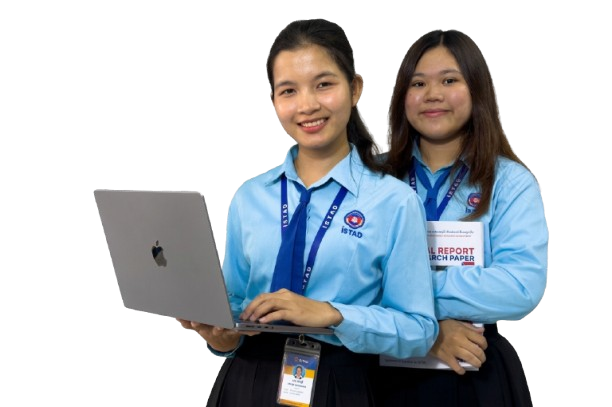
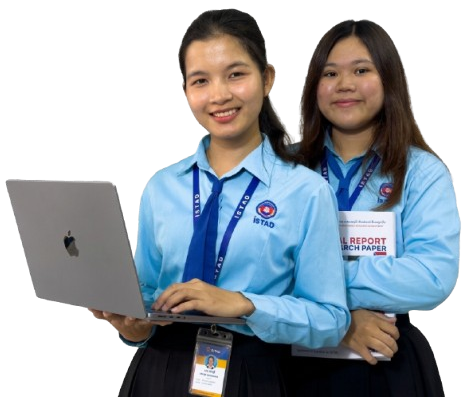
change pae documentation

diff --git a/src/components/documentation/VideoCard.tsx b/src/components/documentation/VideoCard.tsx
@@ -1,32 +1,82 @@
-import { Play } from "lucide-react";
+import Image from "next/image";
+import { Play, Eye } from "lucide-react";
+import { InstructorProps } from "@/types/documentation";
 
-export default function VideoCard({
-  instructor,
-}: {
-  instructor: { videoTitle: string; videoSubtitle: string; studentsLabel: string };
-}) {
+export default function VideoCard({ instructor }: InstructorProps) {
   if (!instructor.videoTitle) return null;
+
   return (
-    <div
-      className="bg-white border border-gray-200 p-4 mb-6 flex items-center gap-4"
-      style={{ borderRadius: 16 }}
-    >
-      <div
-        className="w-24 h-16 flex items-center justify-center shrink-0"
-        style={{ background: "#002455", borderRadius: 16 }}
-      >
-        <Play className="text-white" size={22} />
+    <div className="my-4 group flex flex-col w-full overflow-hidden bg-white border border-slate-100 rounded-2xl transition-all duration-300 font-sans">
+      
+      {/* Top Section: Video Thumbnail (Changed aspect ratio to make it shorter/smaller) */}
+      <div className="relative w-full aspect-[16/7] md:aspect-[16/6] bg-indigo-50 overflow-hidden cursor-pointer">
+        {/* Main Background Thumbnail Image */}
+        <Image
+          src="/images/video-thumbnail.png" 
+          alt={instructor.videoTitle}
+          fill
+          sizes="(max-width: 1200px) 100vw, 1200px"
+          className="object-cover group-hover:scale-105 transition-transform duration-500 ease-out"
+        />
+        
+        {/* Subtle Dark Gradient Overlay on Hover */}
+        <div className="absolute inset-0 bg-slate-900/10 opacity-0 group-hover:opacity-100 transition-opacity duration-300" />
+        
+        {/* Centered Play Button Circle */}
+        <div className="absolute z-10 inset-0 m-auto w-14 h-14 bg-white rounded-full flex items-center justify-center shadow-md group-hover:scale-110 group-hover:bg-[#5b4eff] group-hover:shadow-indigo-200 transition-all duration-300">
+          <Play className="text-[#5b4eff] fill-[#5b4eff] group-hover:text-white group-hover:fill-white ml-0.5 transition-colors duration-200" size={24} />
+        </div>
       </div>
-      <div className="flex-1">
-        <div className="font-medium text-[18px]">{instructor.videoTitle}</div>
-        <div className="text-[14px] text-gray-500">{instructor.videoSubtitle}</div>
+
+      {/* Bottom Section: Content Area */}
+      <div className="p-5 flex flex-col flex-1 justify-between gap-5">
+        
+        {/* Titles */}
+        <div className="space-y-2">
+          <h3 className="font-bold text-lg text-[#002455] line-clamp-2 leading-snug group-hover:text-[#5b4eff] transition-colors duration-200">
+            {instructor.videoTitle}
+          </h3>
+          <p className="text-sm text-slate-500 line-clamp-2 whitespace-pre-line leading-relaxed">
+            {instructor.videoSubtitle}
+          </p>
+        </div>
+
+        {/* Dynamic Meta & Footer Actions */}
+        <div className="space-y-4">
+          {/* Instructor Meta & Views Row */}
+          <div className="flex items-center justify-between border-t border-slate-100 pt-4">
+            {/* Avatar + Name */}
+            <div className="flex items-center gap-3">
+              <div className="relative w-9 h-9 rounded-full overflow-hidden ring-2 ring-slate-50">
+                <Image
+                  src="/images/ben_thona.JPG" 
+                  alt="Instructor Avatar"
+                  fill
+                  sizes="36px"
+                  className="object-cover"
+                />
+              </div>
+              <div className="flex flex-col min-w-0">
+                <span className="font-semibold text-sm text-[#002455] truncate">Vibol Meas</span>
+                <span className="text-xs text-slate-400">គ្រូបង្រៀន</span>
+              </div>
+            </div>
+
+            {/* Views Counter */}
+            <div className="flex items-center gap-1.5 text-slate-400 text-[14px] font-medium">
+              <Eye size={16} className="stroke-[2]" />
+              <span>{instructor.studentsLabel || "999 អ្នកមើល"}</span>
+            </div>
+          </div>
+
+          {/* Action Button */}
+          <button className="w-full bg-[#002455] hover:bg-[#5b4eff] text-white font-medium text-sm py-3 px-4 rounded-xl flex items-center justify-center gap-2 shadow-sm shadow-slate-200 hover:shadow-indigo-100 transition-all duration-200 active:scale-[0.98]">
+            <Play className="text-white fill-white stroke-[3]" size={12} />
+            ចាប់ផ្តើមសិក្សា
+          </button>
+        </div>
+
       </div>
-      <button
-        className="text-[14px] px-3 py-1.5 text-white"
-        style={{ background: "#002455", borderRadius: 16 }}
-      >
-        មើលវីដេអូ
-      </button>
     </div>
   );
 }

diff --git a/src/app/(main)/documentation/lessons/[lessonId]/page.tsx b/src/app/(main)/documentation/lessons/[lessonId]/page.tsx
@@ -32,7 +32,7 @@ export default async function LessonPage({
       <main className="flex-1 max-w-5xl mx-auto py-5 px-4">
         
         {/* 1. HORIZONTAL TRACK NAVIGATION TABS (PLACED AT THE VERY TOP) */}
-        <div className="flex items-center gap-8 mb-8 flex-wrap px-2  border-gray-200 ">
+        {/* <div className="flex items-center gap-8 mb-8 flex-wrap px-2  border-gray-200 ">
           {trackTabs.map((tab) => {
             const isActive = tab.slug === lesson.trackSlug;
             return (
@@ -49,7 +49,7 @@ export default async function LessonPage({
               </Link>
             );
           })}
-        </div>
+        </div> */}
         <Link href="/documentation" className="flex items-center gap-1 text-[16px] border border-gray-200 bg-white px-4 py-2 rounded-lg text-gray-500 mb-6 w-fit hover:bg-gray-50 transition-colors">
           <ChevronLeft size={16} /> ទំព័រដើម
         </Link>
@@ -58,7 +58,7 @@ export default async function LessonPage({
         <LearningGoals objectives={lesson.objectives} />
         <KeyPoint summary={lesson.summary} />
         <CodeExample filename={lesson.codeFilename} code={lesson.code} />
-        <TipsSection tips={lesson.tips} />
+        {/* <TipsSection tips={lesson.tips} /> */}
         <VideoCard instructor={lesson.instructor} />
         <QuickQuiz quiz={lesson.quiz} />
         <LessonFooterNav lesson={lesson} />

diff --git a/src/components/documentation/TechStackChips.tsx b/src/components/documentation/TechStackChips.tsx
@@ -47,7 +47,7 @@ export default function TechStackChips({ options }: TechStackChipsProps) {
               className="group flex items-center gap-2 rounded-full border border-slate-100 bg-white px-5 py-2.5 text-sm font-medium font-khmer text-slate-700 transition-all duration-200 hover:border-blue-300 hover:text-blue-700 hover:bg-slate-50/50"
             >
               {/* Dynamic Logo Replacement */}
-              <div className="relative h-7 w-7 shrink-0 transition-transform duration-200 group-hover:scale-110">
+              <div className="relative h-6 w-6 shrink-0 transition-transform duration-200 group-hover:scale-110">
                 <Image
                   src={iconUrl}
                   alt={`${option.label} logo`}

diff --git a/src/components/documentation/HeroVisual.tsx b/src/components/documentation/HeroVisual.tsx
@@ -13,7 +13,7 @@ export default function HeroVisual() {
           src="/images/doc-hero-image.png"
           alt="សិស្សសាស្ត្រាកូដកំពុងកាន់កុំព្យូទ័រយួរដៃ"
           fill
-          className="object-contain shadow-[0_20px_40px_rgba(30,100,200,0.15)] h-80 w-80 "
+          className="object-contain shadow-[0_20px_40px_rgba(30,100,200,0.15)]  "
           priority
         />
       </div>

diff --git a/src/types/documentation.ts b/src/types/documentation.ts
@@ -14,6 +14,13 @@ export interface DocsNavItem {
   icon: "home" | "book" | "folder" | "bookmark" | "help";
 }
 
+export interface InstructorProps {
+  instructor: {
+    videoTitle: string;
+    videoSubtitle: string;
+    studentsLabel: string; 
+  };
+}
 /** One entry inside a course table-of-contents group, e.g. "Variables & Data Types" */
 export interface CourseTocItem {
   id: string;

diff --git a/src/components/documentation/HeroLesson.tsx b/src/components/documentation/HeroLesson.tsx
@@ -22,7 +22,7 @@ export default function HeroLesson({ lesson }: { lesson: LessonDocument }) {
             {lesson.intro}
           </p>
         </div>
-        
+        ``
         {/* Percentage Counter */}
         <div className="text-right text-sm font-semibold shrink-0">
           {lesson.percentComplete}%
